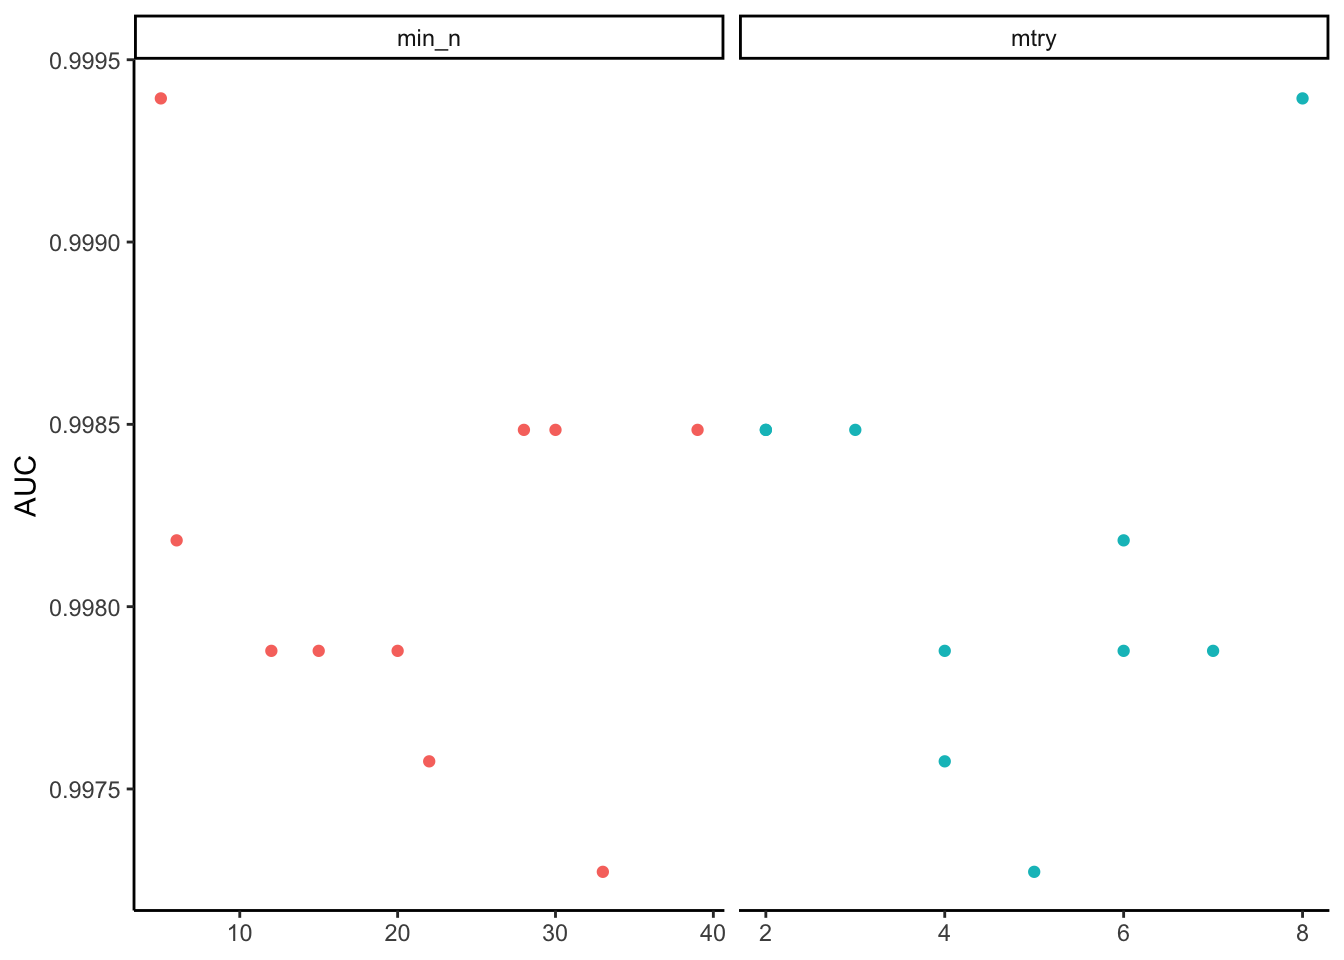
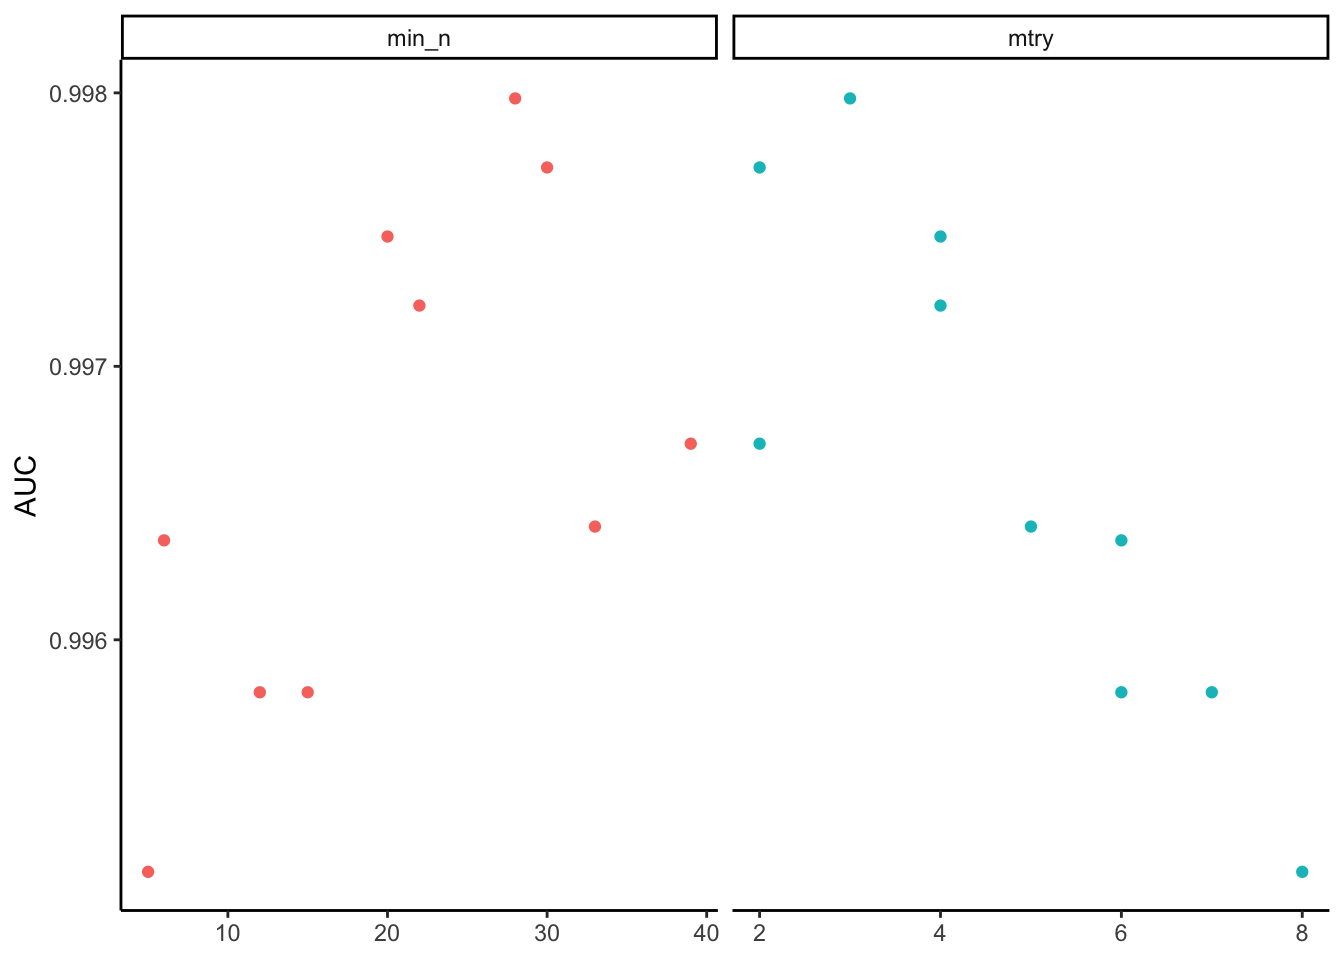
intro finished

diff --git a/15_MachineLearningIntro.html b/15_MachineLearningIntro.html
@@ -87,6 +87,7 @@ pre > code.sourceCode > span > a:first-child::before { text-decoration: underlin
   <li><a href="#general-workflow-for-supervised-ml" id="toc-general-workflow-for-supervised-ml" class="nav-link" data-scroll-target="#general-workflow-for-supervised-ml">General Workflow for Supervised ML</a>
   <ul class="collapse">
   <li><a href="#which-model-type-to-chose-and-why-is-the-data-more-important" id="toc-which-model-type-to-chose-and-why-is-the-data-more-important" class="nav-link" data-scroll-target="#which-model-type-to-chose-and-why-is-the-data-more-important">Which model type to chose? and why is the data more important?</a></li>
+  <li><a href="#theory" id="toc-theory" class="nav-link" data-scroll-target="#theory">Theory</a></li>
   </ul></li>
   <li><a href="#random-forest-with-tidymodels" id="toc-random-forest-with-tidymodels" class="nav-link" data-scroll-target="#random-forest-with-tidymodels">Random Forest with Tidymodels</a>
   <ul class="collapse">
@@ -149,6 +150,10 @@ pre > code.sourceCode > span > a:first-child::before { text-decoration: underlin
 <h2 class="anchored" data-anchor-id="which-model-type-to-chose-and-why-is-the-data-more-important">Which model type to chose? and why is the data more important?</h2>
 <p>The most popular ML models are Random Forests (RFs), which require very little hyper parameter training and usually provide good accuracy “off the shelf”. XGBoost models perform to higher accuracy once their hyper parameters are effectively trained but are not as good as RF off the shelf, similarly Neural Networks are generally the most accurate and powerful models available but require far more hyper parameter and model architecture to perfect. With all the different ML models the quantity and quality of training data will dictate the eventually ability of the models. For example, none of these models are able to predict a new class when predicting a classification problem, likewise many of these models (but not all) will be unable or very poor at extrapolating outside of the range of the label training values.</p>
 </section>
+<section id="theory" class="level2">
+<h2 class="anchored" data-anchor-id="theory">Theory</h2>
+<p>We won’t go into depth of what each of these models is doing inside these functions as there are very many useful and clear tutorials on the theory behind each different machine learning algorithm. Here we will focus on their application, common mistakes, tricks and challenges. For further reading I would recommend: Julia Silge for tidymodels tutorials (Where I learnt): <a href="https://juliasilge.com/" class="uri">https://juliasilge.com/</a>, for more complicated theory of random forest (although with python code examples): <a href="https://www.analyticsvidhya.com/blog/2021/06/understanding-random-forest/" class="uri">https://www.analyticsvidhya.com/blog/2021/06/understanding-random-forest/</a> and for indepth explanation of neural networks I would recommend Jeremy Howards Youtuube channel: <a href="https://www.youtube.com/@howardjeremyp" class="uri">https://www.youtube.com/@howardjeremyp</a> (again this is mostly from a python coding approach).</p>
+</section>
 </section>
 <section id="random-forest-with-tidymodels" class="level1">
 <h1>Random Forest with Tidymodels</h1>
@@ -186,7 +191,7 @@ pre > code.sourceCode > span > a:first-child::before { text-decoration: underlin
 ✖ dplyr::filter()  masks stats::filter()
 ✖ dplyr::lag()     masks stats::lag()
 ✖ recipes::step()  masks stats::step()
-• Search for functions across packages at https://www.tidymodels.org/find/</code></pre>
+• Use tidymodels_prefer() to resolve common conflicts.</code></pre>
 </div>
 <div class="sourceCode cell-code" id="cb5"><pre class="sourceCode r code-with-copy"><code class="sourceCode r"><span id="cb5-1"><a href="#cb5-1" aria-hidden="true" tabindex="-1"></a><span class="fu">library</span>(palmerpenguins)</span></code><button title="Copy to Clipboard" class="code-copy-button"><i class="bi"></i></button></pre></div>
 <div class="cell-output cell-output-stderr">
@@ -244,16 +249,16 @@ Attaching package: 'palmerpenguins'</code></pre>
 # A tibble: 10 × 2
    splits           id    
    &lt;list&gt;           &lt;chr&gt; 
- 1 &lt;split [222/27]&gt; Fold01
- 2 &lt;split [222/27]&gt; Fold02
- 3 &lt;split [224/25]&gt; Fold03
- 4 &lt;split [224/25]&gt; Fold04
+ 1 &lt;split [223/26]&gt; Fold01
+ 2 &lt;split [223/26]&gt; Fold02
+ 3 &lt;split [223/26]&gt; Fold03
+ 4 &lt;split [223/26]&gt; Fold04
  5 &lt;split [224/25]&gt; Fold05
- 6 &lt;split [225/24]&gt; Fold06
+ 6 &lt;split [224/25]&gt; Fold06
  7 &lt;split [225/24]&gt; Fold07
  8 &lt;split [225/24]&gt; Fold08
  9 &lt;split [225/24]&gt; Fold09
-10 &lt;split [225/24]&gt; Fold10</code></pre>
+10 &lt;split [226/23]&gt; Fold10</code></pre>
 </div>
 </div>
 <p>With tidymodels we use recipes to integrate transformations and model formula</p>
@@ -302,19 +307,19 @@ Attaching package: 'palmerpenguins'</code></pre>
 # A tibble: 10 × 4
    splits           id     .metrics          .notes          
    &lt;list&gt;           &lt;chr&gt;  &lt;list&gt;            &lt;list&gt;          
- 1 &lt;split [222/27]&gt; Fold01 &lt;tibble [20 × 6]&gt; &lt;tibble [0 × 3]&gt;
- 2 &lt;split [222/27]&gt; Fold02 &lt;tibble [20 × 6]&gt; &lt;tibble [0 × 3]&gt;
- 3 &lt;split [224/25]&gt; Fold03 &lt;tibble [20 × 6]&gt; &lt;tibble [0 × 3]&gt;
- 4 &lt;split [224/25]&gt; Fold04 &lt;tibble [20 × 6]&gt; &lt;tibble [0 × 3]&gt;
+ 1 &lt;split [223/26]&gt; Fold01 &lt;tibble [20 × 6]&gt; &lt;tibble [0 × 3]&gt;
+ 2 &lt;split [223/26]&gt; Fold02 &lt;tibble [20 × 6]&gt; &lt;tibble [0 × 3]&gt;
+ 3 &lt;split [223/26]&gt; Fold03 &lt;tibble [20 × 6]&gt; &lt;tibble [0 × 3]&gt;
+ 4 &lt;split [223/26]&gt; Fold04 &lt;tibble [20 × 6]&gt; &lt;tibble [0 × 3]&gt;
  5 &lt;split [224/25]&gt; Fold05 &lt;tibble [20 × 6]&gt; &lt;tibble [0 × 3]&gt;
- 6 &lt;split [225/24]&gt; Fold06 &lt;tibble [20 × 6]&gt; &lt;tibble [0 × 3]&gt;
+ 6 &lt;split [224/25]&gt; Fold06 &lt;tibble [20 × 6]&gt; &lt;tibble [0 × 3]&gt;
  7 &lt;split [225/24]&gt; Fold07 &lt;tibble [20 × 6]&gt; &lt;tibble [0 × 3]&gt;
  8 &lt;split [225/24]&gt; Fold08 &lt;tibble [20 × 6]&gt; &lt;tibble [0 × 3]&gt;
  9 &lt;split [225/24]&gt; Fold09 &lt;tibble [20 × 6]&gt; &lt;tibble [0 × 3]&gt;
-10 &lt;split [225/24]&gt; Fold10 &lt;tibble [20 × 6]&gt; &lt;tibble [0 × 3]&gt;</code></pre>
+10 &lt;split [226/23]&gt; Fold10 &lt;tibble [20 × 6]&gt; &lt;tibble [0 × 3]&gt;</code></pre>
 </div>
 </div>
-<p>Lets plot the results of each fold using the ROC_AUC</p>
+<p>Lets plot the results of each fold using the ROC_AUC.</p>
 <div class="cell">
 <div class="sourceCode cell-code" id="cb19"><pre class="sourceCode r code-with-copy"><code class="sourceCode r"><span id="cb19-1"><a href="#cb19-1" aria-hidden="true" tabindex="-1"></a>tune_res <span class="sc">%&gt;%</span></span>
 <span id="cb19-2"><a href="#cb19-2" aria-hidden="true" tabindex="-1"></a>  <span class="fu">collect_metrics</span>() <span class="sc">%&gt;%</span></span>
@@ -351,9 +356,9 @@ Attaching package: 'palmerpenguins'</code></pre>
 <pre><code>Random Forest Model Specification (classification)
 
 Main Arguments:
-  mtry = 8
+  mtry = 3
   trees = 500
-  min_n = 5
+  min_n = 28
 
 Computational engine: ranger </code></pre>
 </div>
@@ -403,8 +408,8 @@ Attaching package: 'vip'</code></pre>
 <pre><code># A tibble: 2 × 4
   .metric  .estimator .estimate .config             
   &lt;chr&gt;    &lt;chr&gt;          &lt;dbl&gt; &lt;chr&gt;               
-1 accuracy multiclass     0.964 Preprocessor1_Model1
-2 roc_auc  hand_till      1.00  Preprocessor1_Model1</code></pre>
+1 accuracy multiclass     0.988 Preprocessor1_Model1
+2 roc_auc  hand_till      0.999 Preprocessor1_Model1</code></pre>
 </div>
 </div>
 <p>So in this very specific example we have got ridiculously good results in our model. This is not always the case.</p>
@@ -416,12 +421,12 @@ Attaching package: 'vip'</code></pre>
 <div class="cell-output cell-output-stdout">
 <pre><code>           Truth
 Prediction  Adelie Chinstrap Gentoo
-  Adelie        33         1      0
-  Chinstrap      0        16      0
-  Gentoo         2         0     32</code></pre>
+  Adelie        39         1      0
+  Chinstrap      0        14      0
+  Gentoo         0         0     30</code></pre>
 </div>
 </div>
-<p>So we can see from this that almost all the predictions are the truth. If you want to see how much the random number generation from before effects the results you can rerun this script with different set.seed() numbers.</p>
+<p>So we can see from this that almost all the predictions are the same as the truth. If you want to see how much the random number generation from before effects the results you can rerun this script with different set.seed() numbers.</p>
 </section>
 </section>
 
